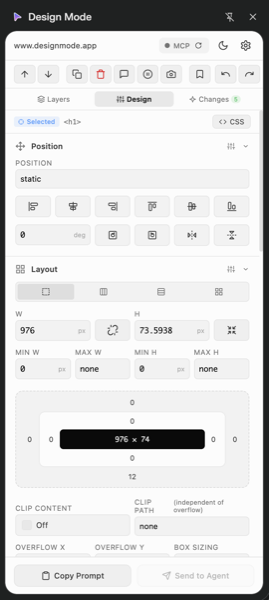
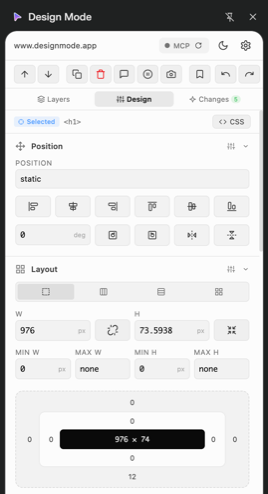
Refresh homepage layout and overview row
Homepage hero + overview row resized and aligned with the footer.
hero-cover sized via aspect-ratio so it scales proportionally.
Header / hero / footer share the same width across home, /mcp,
/demo, /privacy routes. Demo target assets and styles polished.

diff --git a/website/src/app/globals.scss b/website/src/app/globals.scss
@@ -100,7 +100,34 @@ strong {
   gap: 0.875rem;
   max-width: 1024px;
   margin: 0 auto;
-  padding: 2rem 1.5rem 1.5rem;
+  // No horizontal padding on desktop so header / hero / footer span
+  // the full 1024px article width. Narrow-screen breathing room is
+  // restored by the @media (max-width: 980px) rule below.
+  padding: 1.25rem 0 1.5rem;
+}
+
+// Homepage variant — capped at one viewport so the marketing page
+// fits without scrolling. The other routes (/demo, /mcp, /privacy)
+// legitimately scroll, so this opt-in class keeps the cap scoped.
+// The Footer is intentionally NOT special-cased here; it renders
+// at its shared 1024-px-centered width on every route so the brand
+// chrome stays consistent.
+.home-shell {
+  display: flex;
+  flex-direction: column;
+  height: 100vh;
+  overflow: hidden;
+  width: 100%;
+  max-width: 1024px;
+  margin: 0 auto;
+}
+
+.home-shell .article {
+  flex: 1;
+  min-height: 0;
+  padding: 1.25rem 0 0.5rem;
+  gap: 0.5rem;
+  justify-content: flex-start;
 }
 
 // Header spans the full article width so the top nav stretches edge-to-edge
@@ -278,36 +305,38 @@ strong {
   justify-content: center;
   align-items: center;
   align-self: center;
-  width: 720px;
-  max-width: 100%;
+  width: 840px;
+  max-width: 840px;
+  height: 25rem;
+  overflow: hidden;
   gap: 2.5rem;
-  margin-top: 0.5rem;
 }
 
 // ── Hero cover image ─────────────────────────────────────────────────────
-// Constrained by max-height (instead of width) since the screenshot is
-// portrait. Capping the height is what makes the whole page fit inside
-// a typical desktop viewport without scrolling.
+// Height-pinned (400px) with width derived from the image's natural
+// 269×600 aspect ratio — keeps the screenshot uncropped so the full
+// side-panel composition reads correctly. The bottom fade is anchored
+// to the cover's own bottom edge so the dissolve always lines up with
+// where the image ends.
 .hero-cover {
   flex-shrink: 0;
   position: relative;
   overflow: hidden;
   border-radius: 8px;
-  // Cap at a height that, combined with nav + hero + footer, fits inside
-  // a typical desktop viewport (~937px usable on 1080p). Width follows.
-  max-height: 52vh;
   margin: 0;
+  line-height: 0;
 
   img {
     display: block;
-    height: 52vh;
-    max-height: 52vh;
+    height: 25rem;
     width: auto;
     border-radius: 8px;
   }
 
   // Soft fade at the bottom — colour-matched to --body-bg so the image
-  // dissolves into the page rather than ending in a hard edge.
+  // dissolves into the page rather than ending in a hard edge. Because
+  // the cover now stretches to match the right-column's height, the
+  // fade starts where the right-column content ends.
   &::after {
     content: '';
     position: absolute;
@@ -373,7 +402,13 @@ strong {
 }
 
 // ── Footer ───────────────────────────────────────────────────────────────
+// Mirrors the header's `width: 100%; max-width: 1024px` shape so the
+// footer reads identically on every route — regardless of whether the
+// page renders it inside the article wrapper (/mcp, /privacy) or
+// outside it (/, /demo). 100% fills the available column up to the
+// 1024-px cap; `margin: 0 auto` centres it when the viewport is wider.
 .footer {
+  width: 100%;
   max-width: 1024px;
   margin: 0 auto;
   padding: 1rem 1.5rem 3rem;
@@ -397,8 +432,10 @@ strong {
 // Multi-section pages need consistent vertical rhythm + readable lists,
 // code blocks, and tables. The home and demo pages bring their own
 // layouts; these rules only kick in on pages that render plain
-// `.article > section` blocks.
-.article > section {
+// `.article > section` blocks. `.overview-row` is excluded because it
+// owns its own width (840px) — without the :not() it would inherit
+// the 720px cap and the two-column composition would feel cramped.
+.article > section:not(.overview-row) {
   width: 100%;
   max-width: 720px;
   margin: 0 auto;
@@ -507,7 +544,20 @@ strong {
   }
 
   .article {
-    padding: 2rem 1.25rem 2rem;
+    padding: 1.25rem 1.25rem 2rem;
+  }
+
+  // Release the homepage's 100vh cap on tablet / mobile — stacking the
+  // overview into a column produces more vertical content than fits in
+  // a phone viewport, and clipping it via `overflow:hidden` would lose
+  // the install bullets. Let the page scroll on smaller screens.
+  .home-shell {
+    height: auto;
+    overflow: visible;
+  }
+
+  .home-shell .article {
+    padding: 1.25rem 1.25rem 2rem;
   }
 
   // Stack image above content on narrower viewports — flex-row collapses
@@ -516,17 +566,14 @@ strong {
     flex-direction: column;
     align-items: center;
     gap: 1.5rem;
+    width: 100%;
+    max-width: 100%;
   }
 
-  .hero-cover {
-    max-height: none;
-    width: 60%;
-
-    img {
-      height: auto;
-      max-height: none;
-      width: 100%;
-    }
+  // Cover scales down on smaller viewports — the img dictates dimensions,
+  // so reducing its height keeps everything proportional.
+  .hero-cover img {
+    height: 320px;
   }
 
   .overview-content {
@@ -543,7 +590,7 @@ strong {
 
 @media (max-width: 640px) {
   .article {
-    padding: 2.5rem 1rem 2rem;
+    padding: 1.25rem 1rem 2rem;
     gap: 0.5rem;
   }
 
@@ -609,11 +656,8 @@ strong {
     line-height: 1.55;
   }
 
-  // Cover image — 60% (from the 980px breakpoint) is still a little
-  // narrow at phone widths; bump it up so the side-panel detail stays
-  // legible while the fade still does its job.
-  .hero-cover {
-    width: 75%;
+  .hero-cover img {
+    height: 280px;
   }
 
   // Hide the secondary "Try the Demo" CTA on phones — the top nav is
@@ -638,7 +682,7 @@ strong {
 
 @media (max-width: 400px) {
   .article {
-    padding: 2rem 0.875rem 1.5rem;
+    padding: 1.25rem 0.875rem 1.5rem;
   }
 
   .page-title {
@@ -675,8 +719,7 @@ strong {
     }
   }
 
-  // Use the full column width at the smallest breakpoint
-  .hero-cover {
-    width: 90%;
+  .hero-cover img {
+    height: 240px;
   }
 }

diff --git a/website/src/app/demo/demo.module.scss b/website/src/app/demo/demo.module.scss
@@ -7,7 +7,7 @@
 .demoLayout {
   max-width: 1024px;
   margin: 0 auto;
-  padding: 1rem 1.5rem 3rem;
+  padding: 1.25rem 1.5rem 3rem;
   display: grid;
   grid-template-columns: 240px 1fr;
   gap: 2.5rem;
@@ -484,6 +484,64 @@
   border-radius: 0.375rem;
   font-size: 0.875rem;
   font-weight: 500;
+}
+
+.targetMotionStage {
+  width: 100%;
+  max-width: 360px;
+  padding: 1.25rem;
+  background: #f3f4f6;
+  border-radius: 0.5rem;
+  display: flex;
+  align-items: center;
+  justify-content: center;
+}
+
+.targetMotionCard {
+  padding: 1rem 1.25rem;
+  background: #ffffff;
+  border-radius: 0.5rem;
+  box-shadow: 0 1px 2px rgba(0, 0, 0, 0.06);
+  text-align: center;
+  // Default transition + transform so the demo target already shows a
+  // hover state — the user adds / tweaks via the Motion section.
+  transition: transform 0.2s ease, box-shadow 0.2s ease;
+
+  &:hover {
+    transform: translateY(-2px);
+    box-shadow: 0 6px 16px rgba(0, 0, 0, 0.12);
+  }
+
+  strong {
+    display: block;
+    font-size: 0.95rem;
+    margin-bottom: 0.25rem;
+  }
+
+  p {
+    font-size: 0.8125rem;
+    color: rgba(0, 0, 0, 0.65);
+    margin: 0;
+  }
+}
+
+.targetLayoutGuideContainer {
+  width: 100%;
+  max-width: 520px;
+  height: 200px;
+  padding: 1rem;
+  background: #fafafa;
+  border: 1px dashed rgba(0, 0, 0, 0.15);
+  border-radius: 0.5rem;
+  display: flex;
+  align-items: center;
+  justify-content: center;
+}
+
+.targetLayoutGuideHint {
+  font-size: 0.8125rem;
+  color: rgba(0, 0, 0, 0.55);
+  text-align: center;
 }
 
 .targetActionStage {

diff --git a/website/src/app/demo/DemoTargets.tsx b/website/src/app/demo/DemoTargets.tsx
@@ -119,6 +119,26 @@ export const DEMO_TARGETS: Record<string, () => JSX.Element> = {
     </div>
   ),
 
+  "design-motion": () => (
+    <div id="demo-motion-stage" className={styles.targetMotionStage}>
+      <div id="demo-motion-card" className={styles.targetMotionCard}>
+        <strong>Animate me</strong>
+        <p>
+          Pick me, expand Motion, add a Transition on background-color or
+          transform, then hover this card.
+        </p>
+      </div>
+    </div>
+  ),
+
+  "design-layout-guide": () => (
+    <div id="demo-layout-guide-container" className={styles.targetLayoutGuideContainer}>
+      <span className={styles.targetLayoutGuideHint}>
+        Wide container — apply a Columns × 12 layout guide on me.
+      </span>
+    </div>
+  ),
+
   "action-row": () => (
     <div id="demo-action-stage" className={styles.targetActionStage}>
       <div

diff --git a/website/src/app/page.tsx b/website/src/app/page.tsx
@@ -4,7 +4,7 @@ import { TopNav } from "./TopNav";
 
 export default function OverviewPage() {
   return (
-    <>
+    <div className="home-shell">
       <article className="article">
         <header>
           <TopNav />
@@ -35,14 +35,13 @@ export default function OverviewPage() {
             </p>
 
             <ul className="feature-list">
-              <li>Stop describing UI changes in chat. Drag, click, type — your agent reads your edits as a real diff, not a screenshot.</li>
+              <li>Stop describing UI changes in chat. Drag, click, and type on any live URL — localhost, staging, or production — and your agent reads your edits as a real diff. No Storybook, no mock files, no screenshots of what you mean.</li>
               <li>One click sends the selected element, computed styles, and your changes to Claude Code or Cursor as a ready-to-run prompt.</li>
               <li>
                 Bring your agent inside the page via the built-in MCP server &mdash; pick from three
                 connection modes (Local, Cloud, Self-hosted).{" "}
                 <Link href="/mcp">See setup →</Link>
               </li>
-              <li>Works on the URL already in your tab: localhost, staging, or production. No Storybook, no mock files.</li>
               <li>Tighten a layout in seconds, then commit the patch. The vibe-coding loop, minus the back-and-forth.</li>
             </ul>
           </div>
@@ -50,6 +49,6 @@ export default function OverviewPage() {
       </article>
 
       <Footer />
-    </>
+    </div>
   );
 }